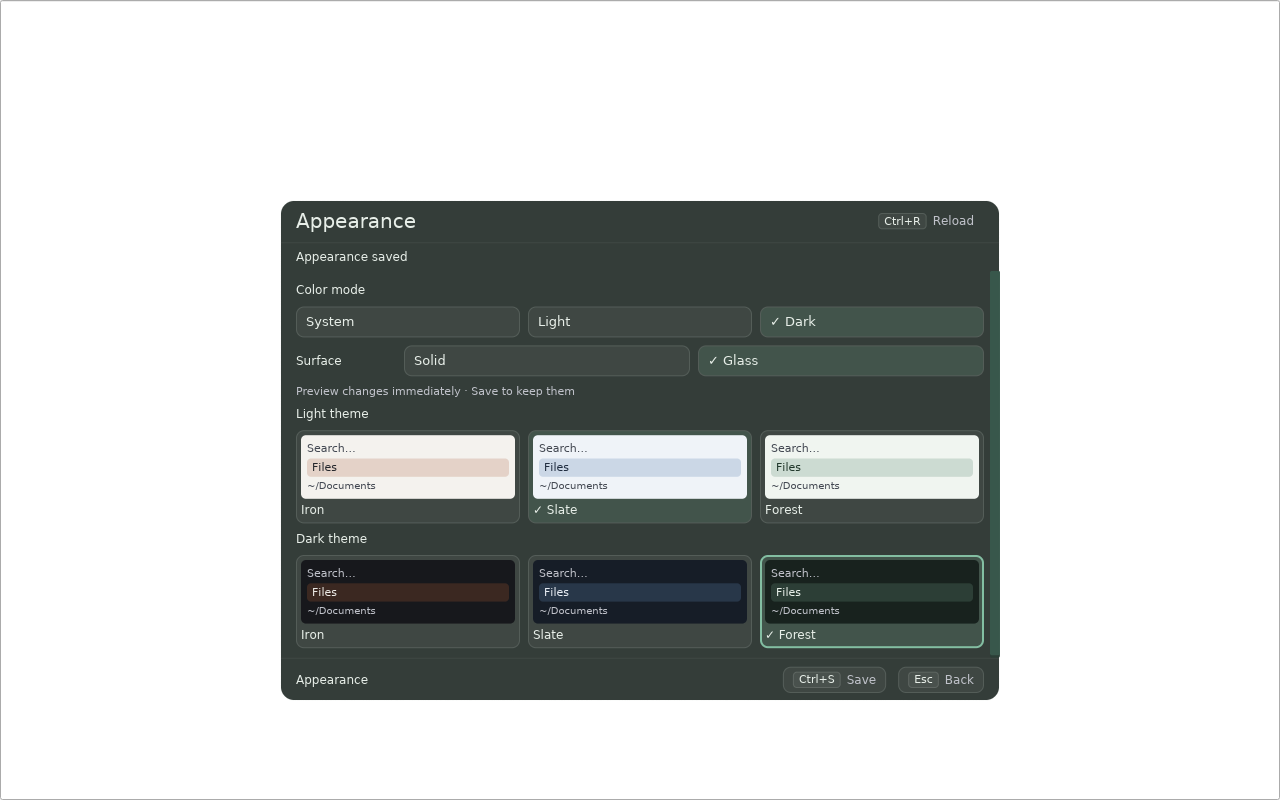
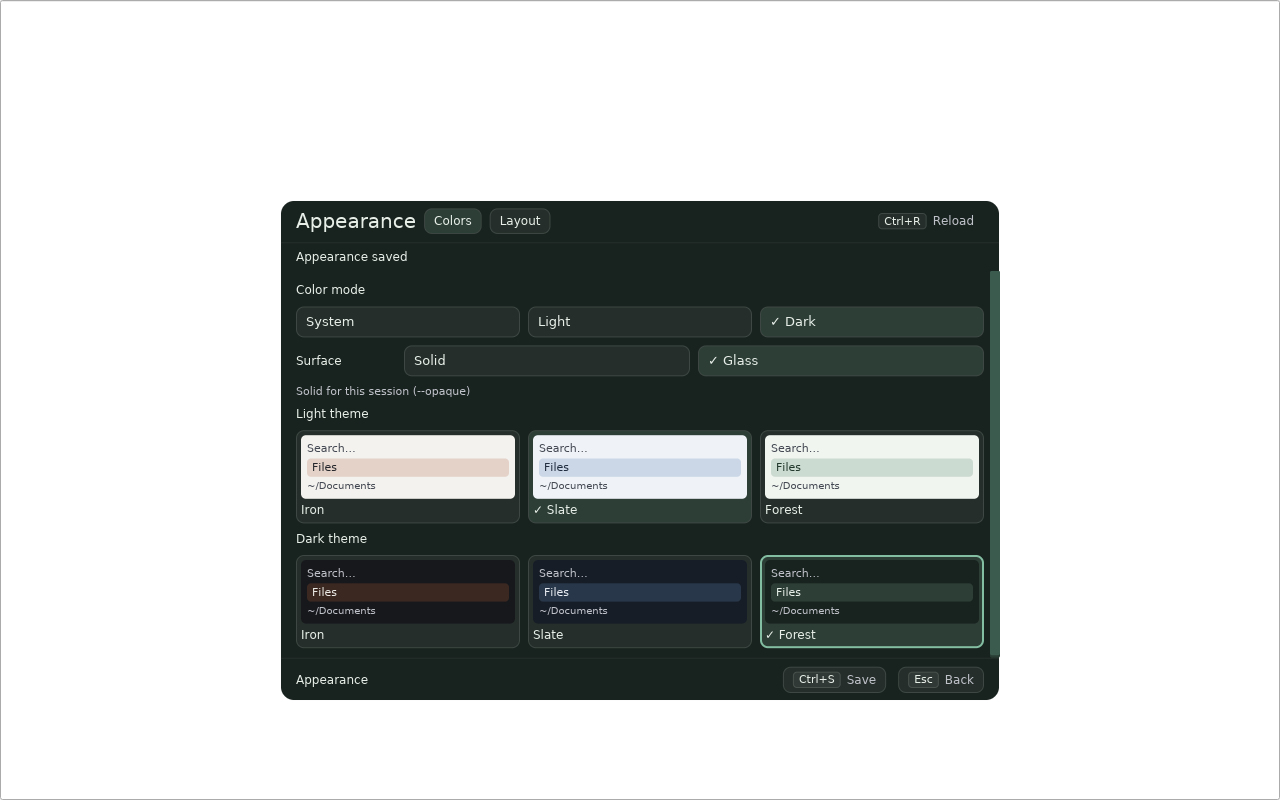
docs(launcher): refresh native appearance and layout captures
Await chooser completion directly instead of racing a toggle against its normal exit.

Changed region(s): [[0.2188, 0.25, 0.7812, 0.875]]

diff --git a/tests/launcher-interaction.py b/tests/launcher-interaction.py
@@ -321,10 +321,10 @@ def main():
                         capture(f"layout-chooser-last-{mode}.png")
                         selected_handler.unlink(missing_ok=True)
                         chord(29, 2)  # First visible numbered choice, after scrolling to the last.
-                        wait_for(lambda: selected_handler.exists(), "visible chooser application dispatched", process=None)
-                        assert selected_handler.read_text() == ("2" if small else "1"), "chooser dispatched a row outside its constrained window"
-                        if process.poll() is None and owner():
-                            subprocess.run([str(binary)], check=True, timeout=5)
+                        selected = wait_for(lambda: selected_handler.read_text() if selected_handler.exists() else None,
+                                            "visible chooser application dispatched")
+                        assert selected == ("2" if small else "1"), "chooser dispatched a row outside its constrained window"
+                        # A successful Open with closes the launcher itself.
                         assert process.wait(timeout=5) == 0
                         wait_for(lambda: not owner(), "layout restart closed")
                         continue

diff --git a/docs/LAUNCHER.md b/docs/LAUNCHER.md
@@ -48,7 +48,7 @@ the engine and integrations. See [installation](INSTALLATION.md).
 ![Appearance settings in light mode](assets/launcher-appearance-light.png)
 
 [Dark appearance](assets/launcher-appearance-dark.png). Native captures from the
-[isolated KWin matrix](https://github.com/Lucenx9/ferroseek/actions/runs/41831244131),
+[isolated KWin matrix](https://github.com/Lucenx9/ferroseek/actions/runs/41841162147),
 AZERTY 1× profile, with synthetic data.
 
 Choose **Appearance** in the search header, or press **Ctrl+Shift+Comma**.
@@ -79,6 +79,12 @@ dark_theme = "iron"
 width = "standard"   # compact (640), standard (720), wide (880) logical px
 position = "upper"   # upper, centered
 ```
+
+![Layout settings on a constrained output](assets/launcher-layout.png)
+
+[Wide centered layout at 1.5×](assets/launcher-layout-centered.png). Native
+captures from the same matrix: 640×480 at 1× and 960×640 logical at 1.5×,
+respectively. The matrix artifacts retain the full keyboard and pixel checks.
 
 **Layout** offers Compact (640), Standard (720) and Wide (880) widths and upper
 or centered placement. The default remains Standard and Upper. The side preview
